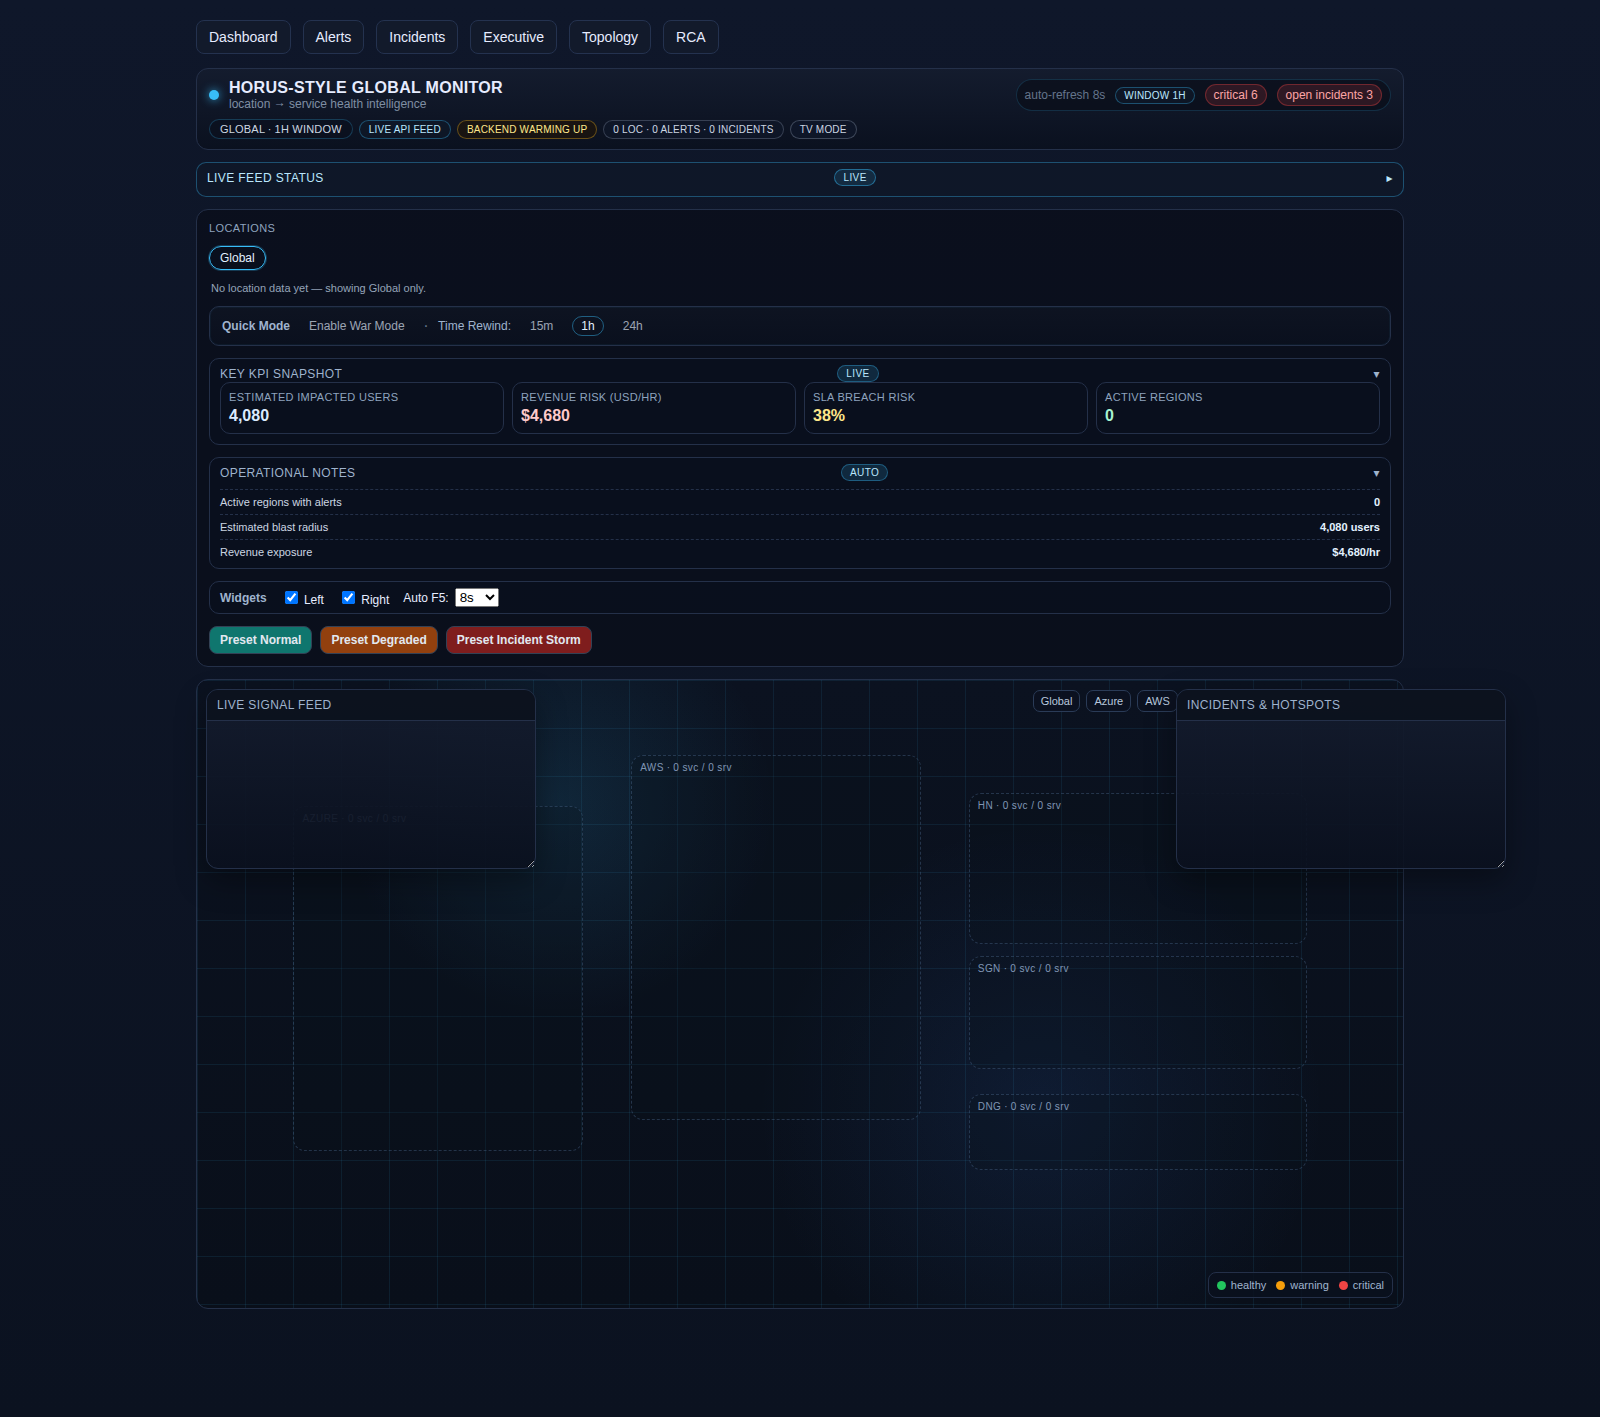
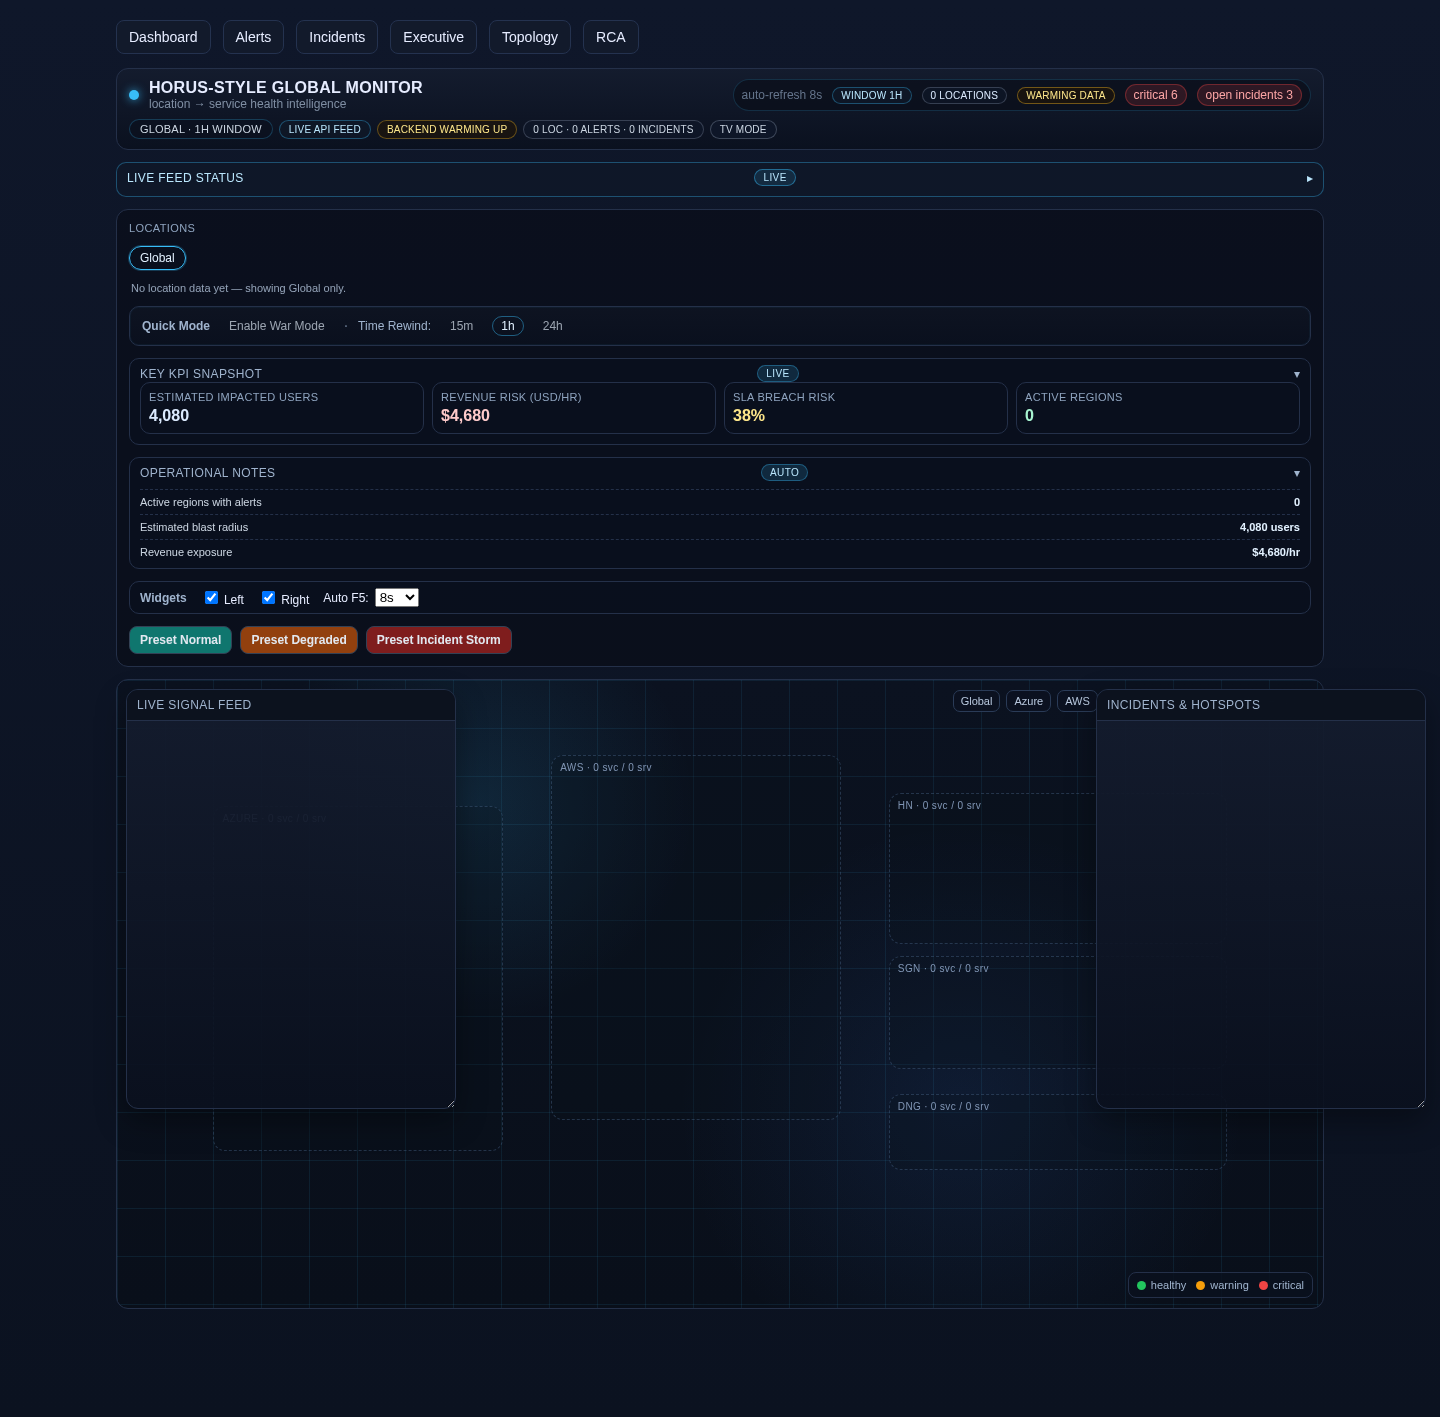
Polish home topbar warming status

diff --git a/worldmonitor-hybrid/web/app/page.js b/worldmonitor-hybrid/web/app/page.js
@@ -177,6 +177,7 @@ export default async function DashboardPage({ searchParams }) {
           <AutoRefresh seconds={8} />
           <span className={styles.windowPill}>Window {dataWindow}</span>
           <span className={styles.topbarCount}>{normalizedLocations.length} locations</span>
+          {isBackendWarming && <span className={styles.topbarHint}>Warming data</span>}
           <StatusBadge status={`critical ${focusedOpenAlerts || 0}`} />
           <StatusBadge status={`open incidents ${focusedOpenIncidents || 0}`} />
         </div>

diff --git a/worldmonitor-hybrid/web/app/home.module.css b/worldmonitor-hybrid/web/app/home.module.css
@@ -61,6 +61,17 @@
   text-transform: uppercase;
 }
 
+.topbarHint {
+  font-size: 10px;
+  color: #fde68a;
+  border-radius: 999px;
+  border: 1px solid rgba(251, 191, 36, .4);
+  background: rgba(30, 20, 8, .65);
+  padding: 2px 8px;
+  letter-spacing: .2px;
+  text-transform: uppercase;
+}
+
 .topbarMeta {
   display: flex;
   align-items: center;

diff --git a/worldmonitor-hybrid/CHANGELOG.md b/worldmonitor-hybrid/CHANGELOG.md
@@ -5,6 +5,7 @@
 ### Changed
 - API incidents: harden `POST /incidents/{id}/assign` để validate `assignee_id` hợp lệ (bắt buộc > 0 theo schema + phải tồn tại trong bảng `users`), trả `422 Invalid assignee_id` rõ nghĩa thay vì chấp nhận ID mồ côi gây lệch dữ liệu phân công.
 - Home: thêm pill "locations" nhỏ ngay topbar stats để thấy nhanh coverage từ backend rollout mà không làm đổi bố cục.
+- Home: thêm pill "Warming data" trong topbar stats khi feed live chưa có dữ liệu, giúp nhận biết backend rollout đang khởi động mà không đổi layout.
 - API topology: chuẩn hoá `criticality` khi tính KPI `critical_edges` (trim + lowercase) để đếm đúng cả dữ liệu edge viết hoa/thường không nhất quán (`High`/`CRITICAL`...), tránh KPI bị hụt do lệch casing từ nguồn dữ liệu.
 - API ingest: harden parser JSON cho các webhook ingest (`/ingest/zabbix`, `/ingest/alertmanager`, `/ingest/uptimerobot`) — payload `Content-Type: application/json` nhưng body lỗi cú pháp giờ trả `422 Malformed JSON body` thay vì rơi exception thành `500`, giúp client debug đúng lỗi input.
 - Home: thêm pill hiển thị data window ngay trong topbar trạng thái để thấy nhanh cửa sổ dữ liệu backend khi TV mode hoặc rollout live.
